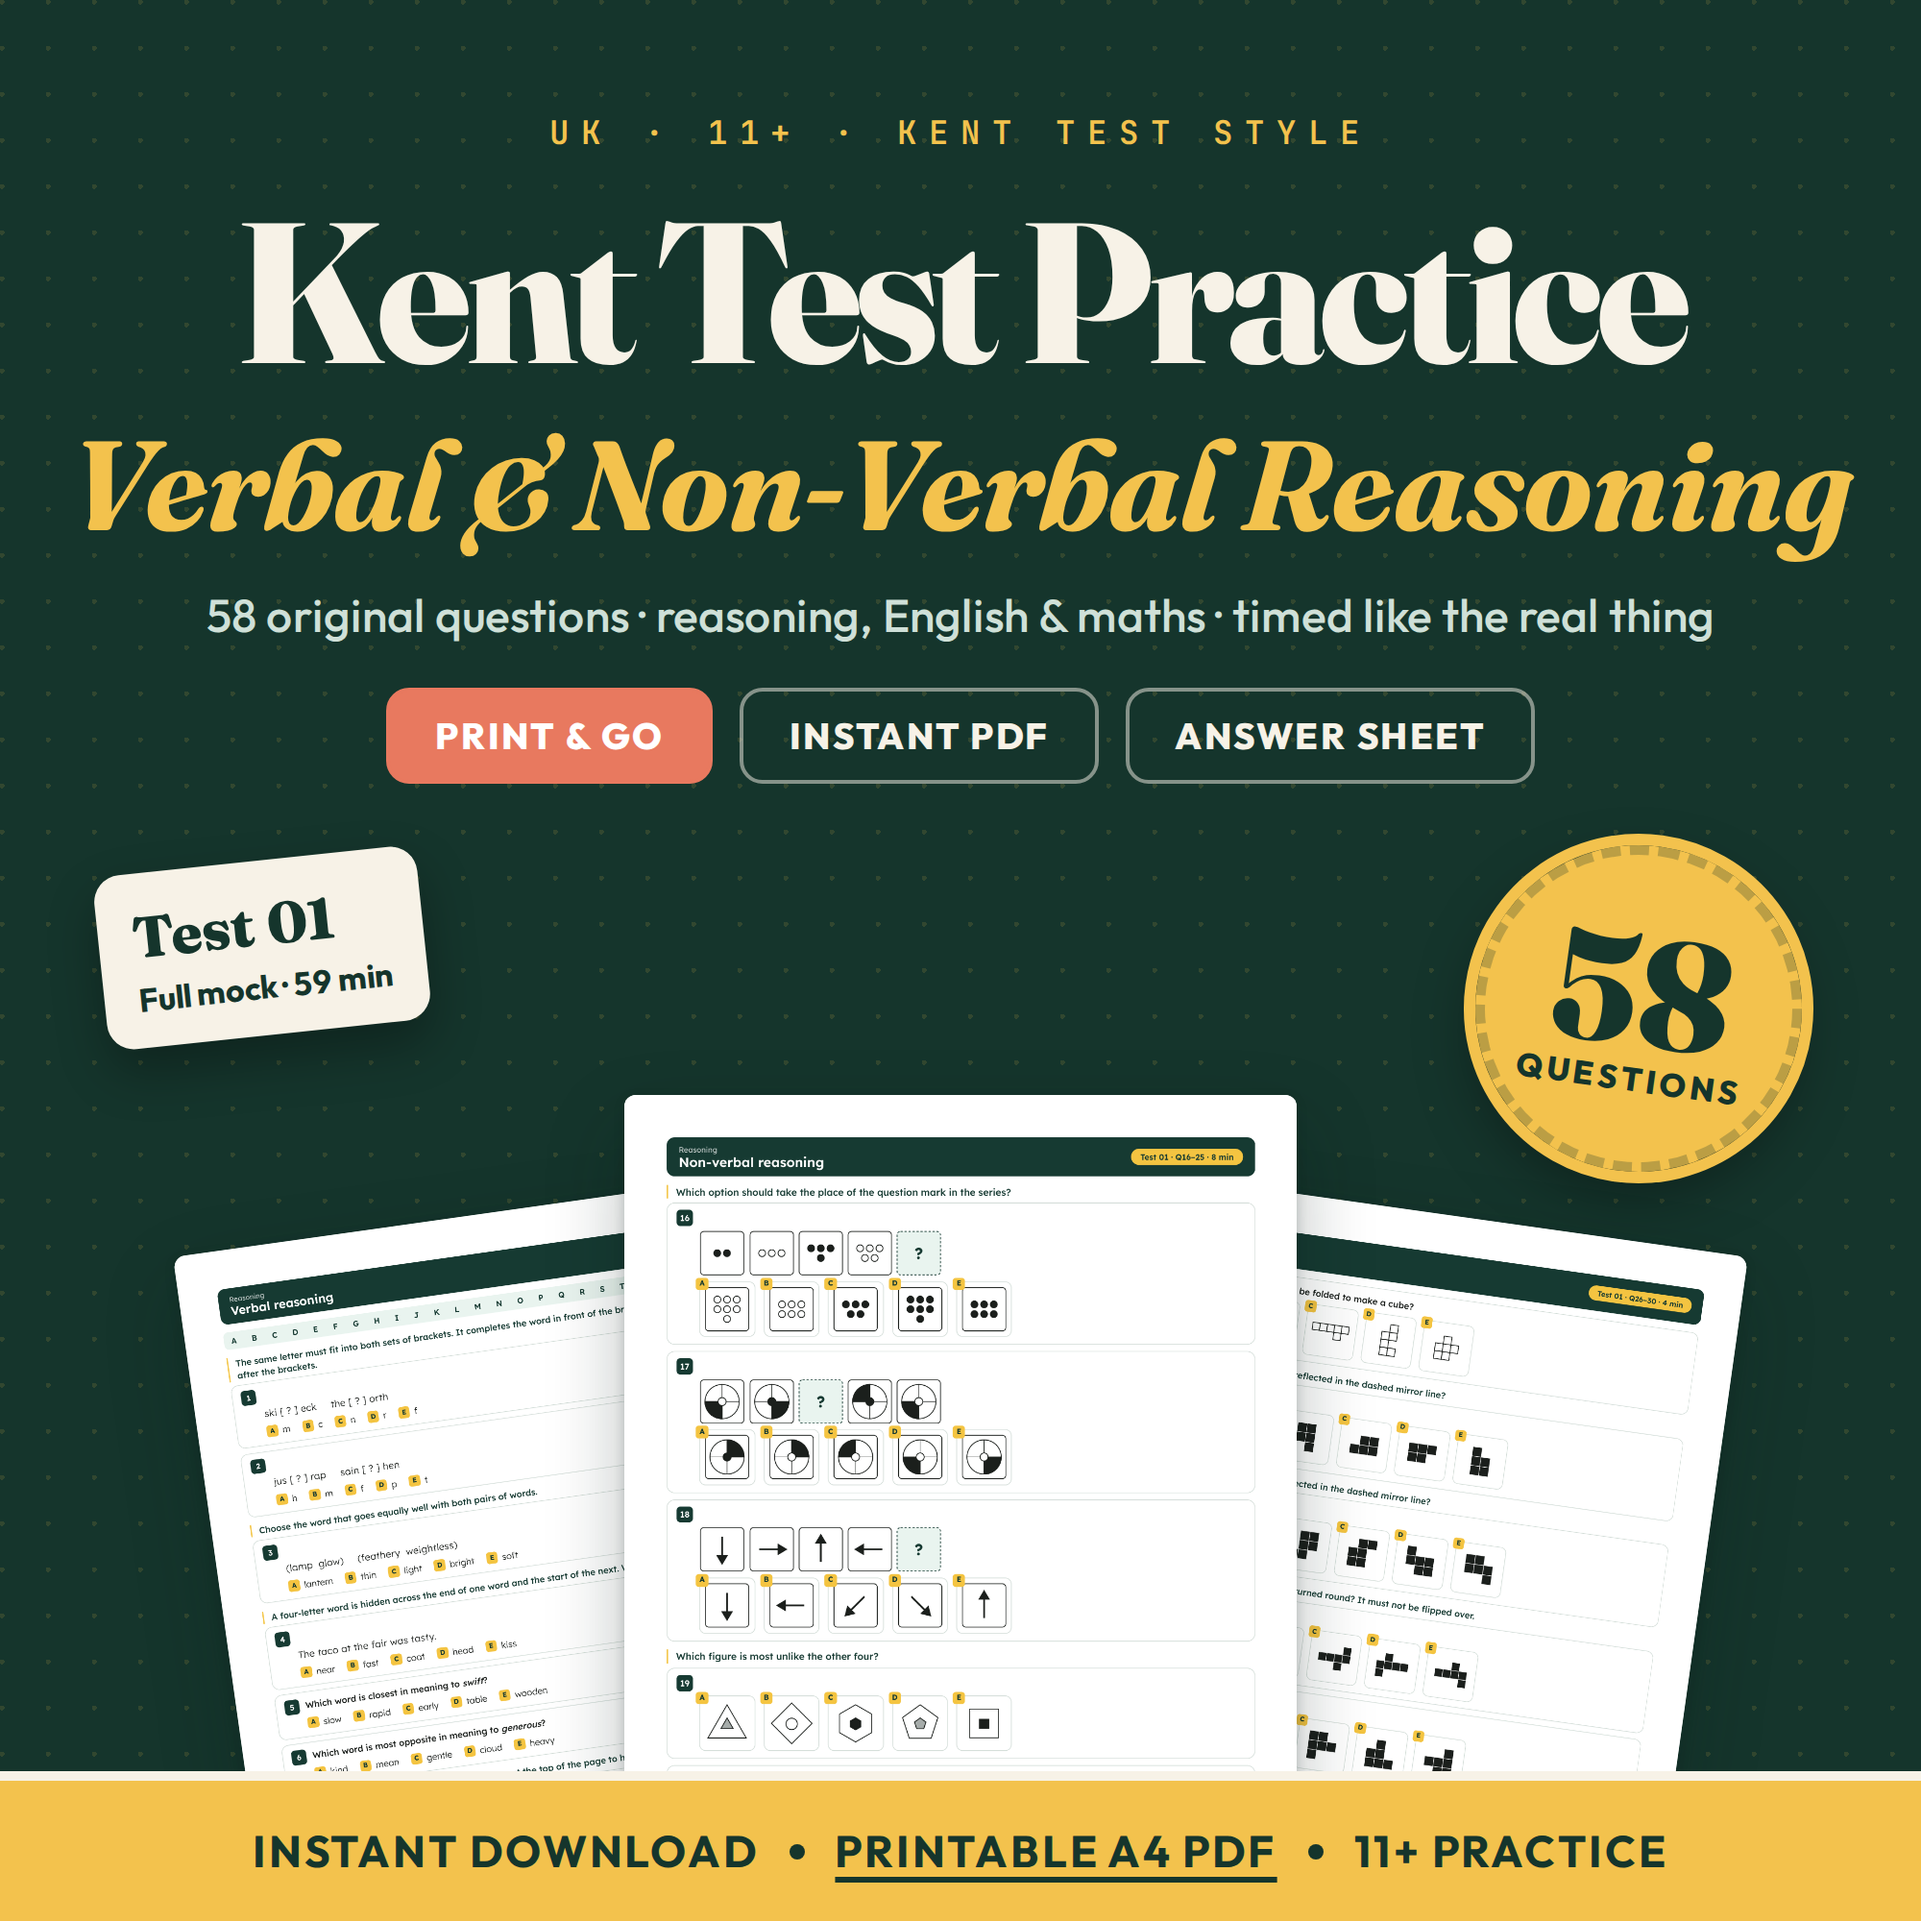
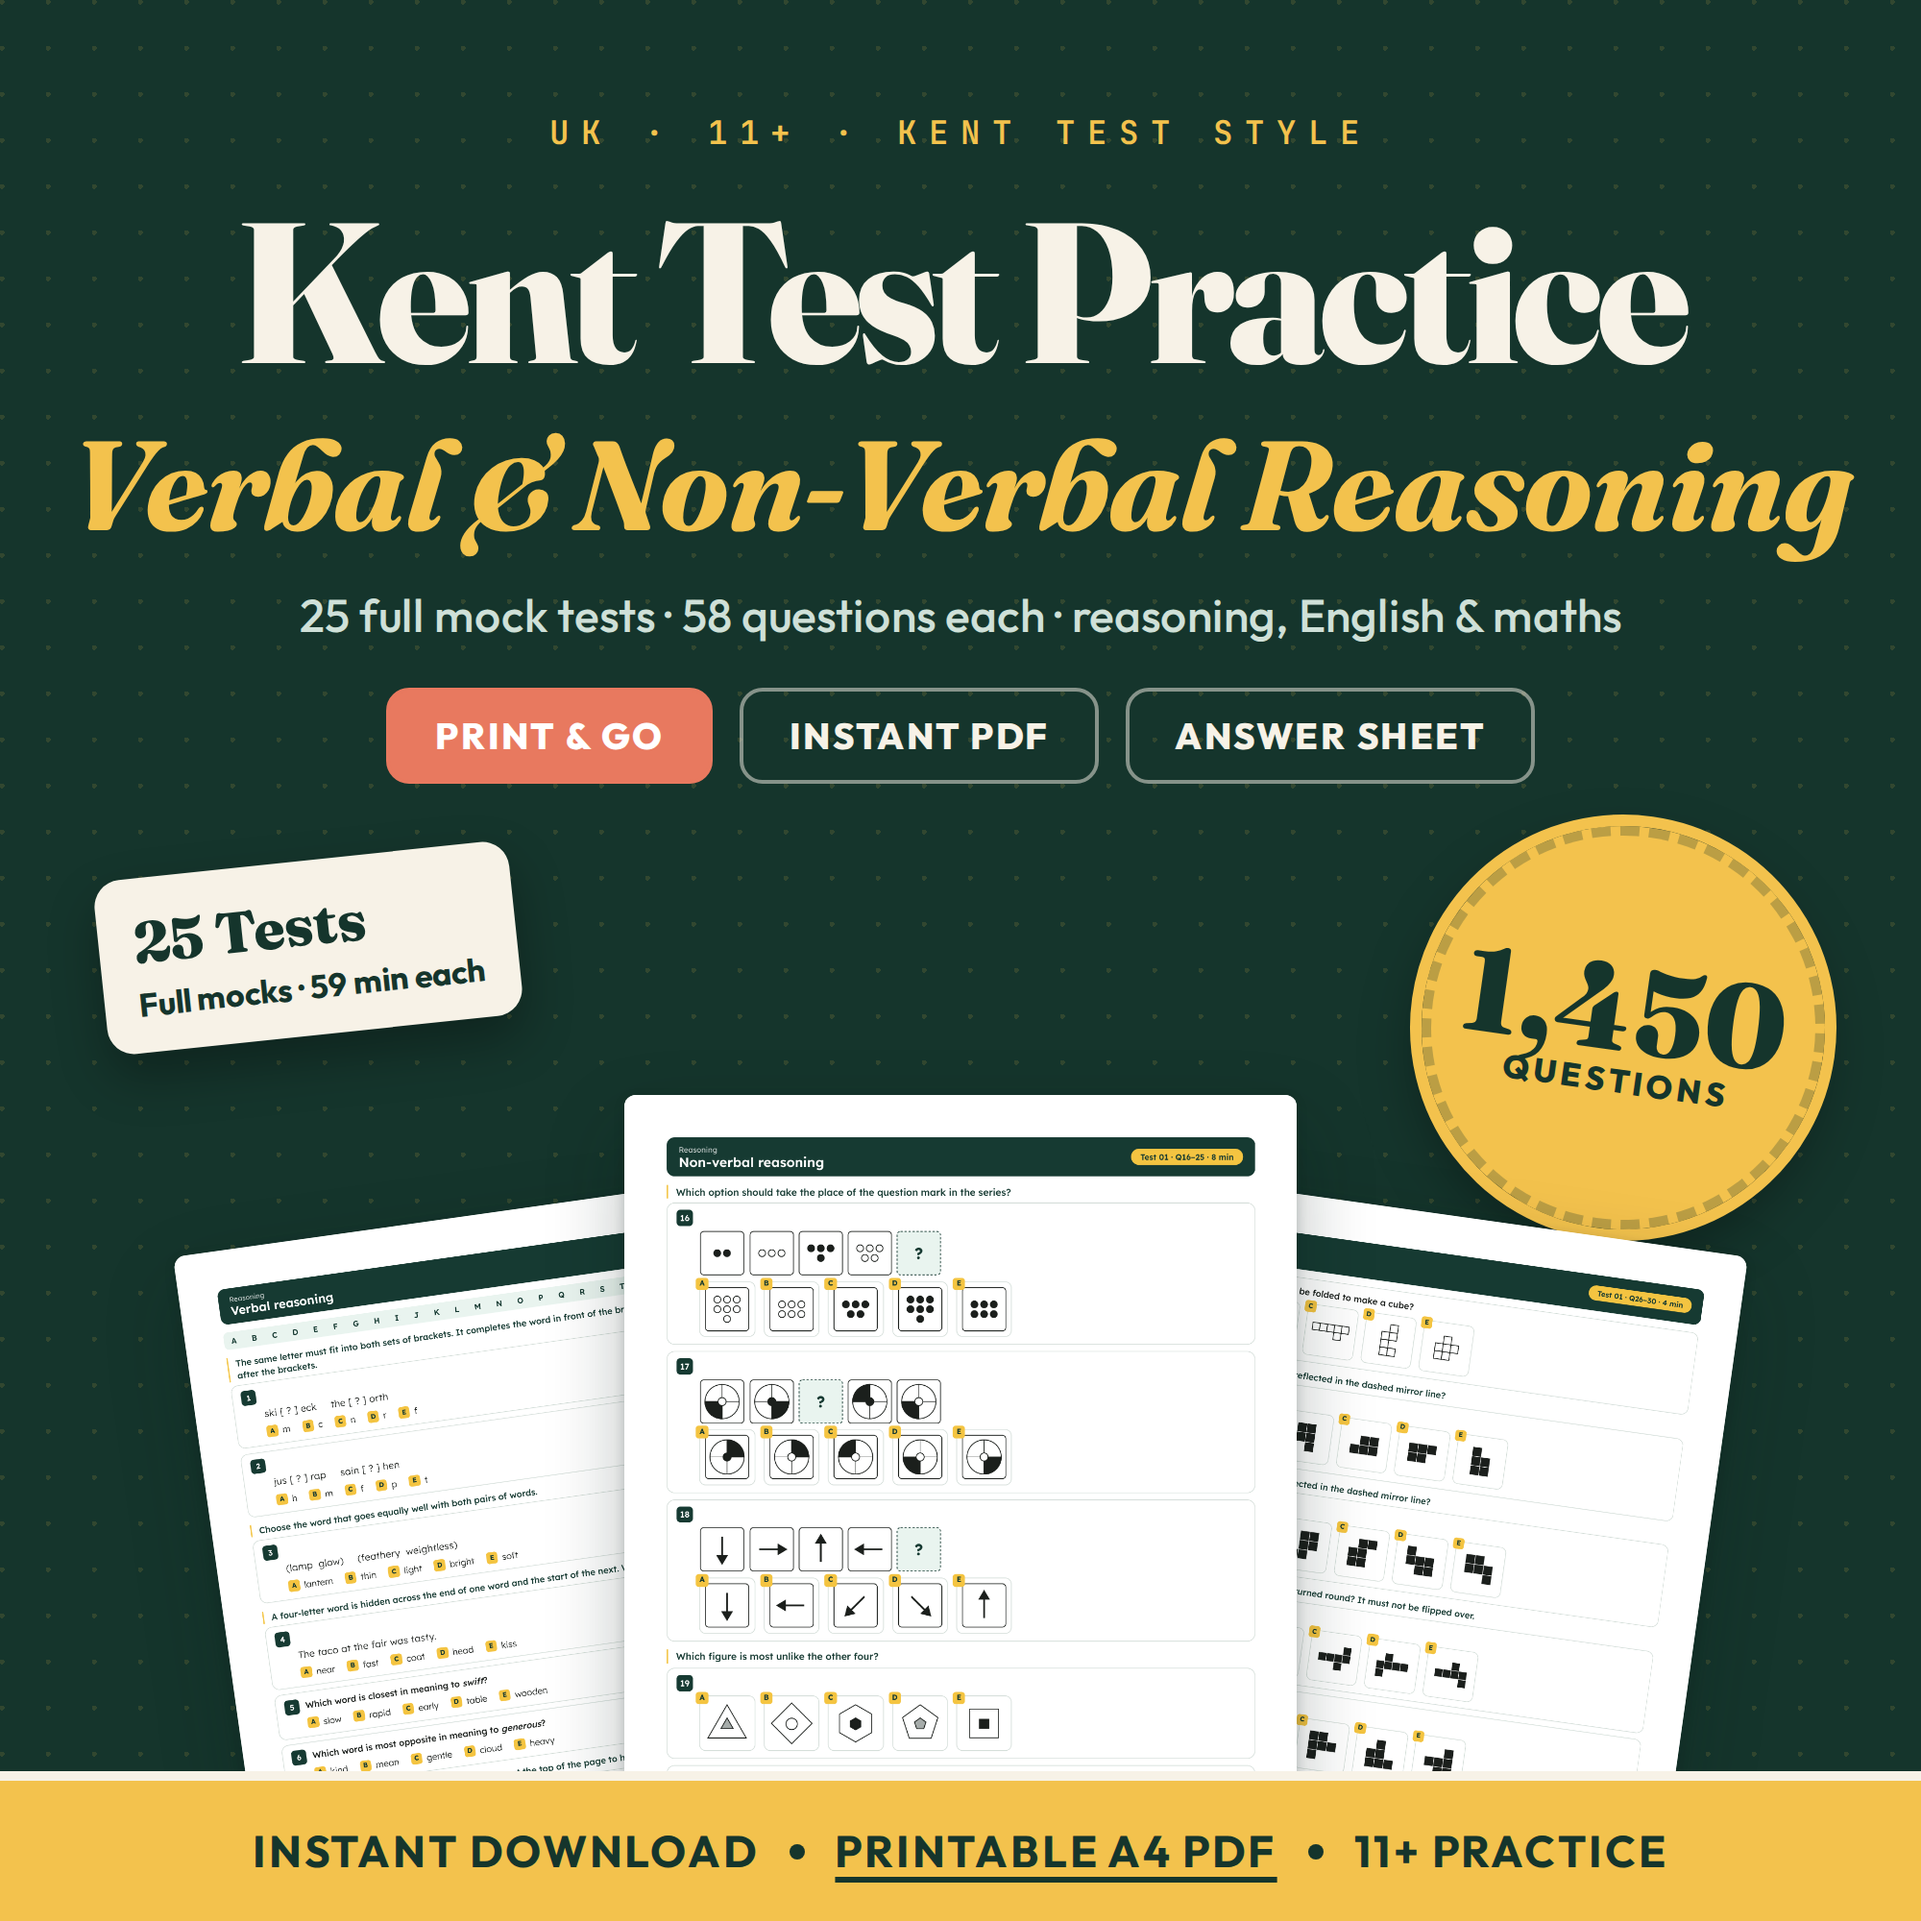
Update listing graphics for the 25-test, 1,450-question pack
Claude-Session: https://claude.ai/code/session_01B8Yb5i3A5jf2Jq7rg2Sx38

Changed region(s): [[0.713, 0.403, 0.961, 0.651], [0.093, 0.31, 0.899, 0.341], [0.062, 0.434, 0.279, 0.558]]

diff --git a/listing-graphics/kent-test-practice-01/graphics.html b/listing-graphics/kent-test-practice-01/graphics.html
@@ -55,10 +55,10 @@
   .pills{position:absolute;top:358px;left:0;right:0;display:flex;justify-content:center;gap:14px}
   .pill{padding:11px 24px;border-radius:12px;font-weight:800;font-size:19px;letter-spacing:.06em;border:2px solid rgba(247,242,231,.5);color:var(--cream)}
   .pill.on{background:var(--coral);border-color:var(--coral);color:#fff}
-  .s1 .badge{position:absolute;right:62px;top:440px;width:170px;height:170px;border-radius:50%;background:var(--sun);color:var(--forest);
+  .s1 .badge{position:absolute;right:50px;top:430px;width:210px;height:210px;border-radius:50%;background:var(--sun);color:var(--forest);
     display:flex;flex-direction:column;align-items:center;justify-content:center;transform:rotate(8deg);
     box-shadow:0 12px 30px rgba(0,0,0,.35);border:5px dashed rgba(21,53,44,.25);outline:6px solid var(--sun)}
-  .s1 .badge b{font-family:Fraunces,serif;font-size:80px;line-height:.9;font-weight:800}
+  .s1 .badge b{font-family:Fraunces,serif;font-size:62px;line-height:.9;font-weight:800}
   .s1 .badge span{font-weight:800;font-size:17px;letter-spacing:.12em}
   .s1 .tag{position:absolute;left:52px;top:448px;background:var(--cream);color:var(--forest);border-radius:14px;padding:14px 18px;
     transform:rotate(-6deg);box-shadow:0 12px 26px rgba(0,0,0,.3);font-weight:700;font-size:17px;line-height:1.35;z-index:5}
@@ -147,10 +147,10 @@
   <div class="eyebrow">UK · 11+ · KENT TEST STYLE</div>
   <div class="t1">Kent Test Practice</div>
   <div class="t2">Verbal &amp; Non-Verbal Reasoning</div>
-  <div class="t3">58 original questions · reasoning, English &amp; maths · timed like the real thing</div>
+  <div class="t3">25 full mock tests · 58 questions each · reasoning, English &amp; maths</div>
   <div class="pills"><span class="pill on">PRINT &amp; GO</span><span class="pill">INSTANT PDF</span><span class="pill">ANSWER SHEET</span></div>
-  <div class="tag"><strong>Test 01</strong>Full mock · 59 min</div>
-  <div class="badge"><b>58</b><span>QUESTIONS</span></div>
+  <div class="tag"><strong>25 Tests</strong>Full mocks · 59 min each</div>
+  <div class="badge"><b>1,450</b><span>QUESTIONS</span></div>
   <div class="fan">
     <div class="page p-l"><img src="assets/page-02.png" alt=""></div>
     <div class="page p-r"><img src="assets/page-06.png" alt=""></div>
@@ -162,12 +162,12 @@
 <!-- 2 · WHAT'S INSIDE -->
 <section class="slide s2" id="s2">
   <div class="head">
-    <div class="kicker">Five sections · one mock test</div>
+    <div class="kicker">Five sections · 25 mock tests</div>
     <div class="h1">What's <em>inside</em></div>
-    <div class="sub">Every Kent Test paper, each section timed</div>
+    <div class="sub">Every test has all five sections, each one timed</div>
   </div>
   <div class="rows">
-    <div class="booklet">Booklet 1 · Reasoning</div>
+    <div class="booklet">Booklet 1 · Reasoning · per test</div>
     <div class="row">
       <div class="ico"><svg viewBox="0 0 44 44" fill="none" stroke="#15352c" stroke-width="3" stroke-linecap="round" stroke-linejoin="round"><path d="M9 34 17 10h2l8 24"/><path d="M12 26h12"/><path d="M29 20h8M29 27h8"/></svg></div>
       <div><h3>Verbal reasoning</h3><p>Hidden words, codes, letter series &amp; analogies</p></div>
@@ -183,7 +183,7 @@
       <div><h3>Spatial reasoning</h3><p>Cube nets, reflections &amp; rotations</p></div>
       <div class="meta"><span class="chip q">5<small>QUESTIONS</small></span><span class="chip t">4<small>MINUTES</small></span></div>
     </div>
-    <div class="booklet">Booklet 2 · English &amp; Maths</div>
+    <div class="booklet">Booklet 2 · English &amp; Maths · per test</div>
     <div class="row">
       <div class="ico"><svg viewBox="0 0 44 44" fill="none" stroke="#15352c" stroke-width="3" stroke-linecap="round" stroke-linejoin="round"><path d="M7 10c6-2 11-1 15 3 4-4 9-5 15-3v24c-6-2-11-1-15 3-4-4-9-5-15-3z"/><path d="M22 13v24"/></svg></div>
       <div><h3>English</h3><p>Spelling, grammar, punctuation &amp; comprehension</p></div>
@@ -201,7 +201,7 @@
 <!-- 3 · SAMPLE QUESTIONS -->
 <section class="slide s3" id="s3">
   <div class="head">
-    <div class="kicker">A look inside the booklet</div>
+    <div class="kicker">1,450 questions to practise</div>
     <div class="h1">Real <em>exam-style</em> questions</div>
     <div class="sub">Five answer options on every question, just like the Kent Test</div>
   </div>
@@ -231,13 +231,13 @@
 <!-- 4 · TWO BOOKLETS -->
 <section class="slide s4" id="s4">
   <div class="head">
-    <div class="kicker">11 printable A4 pages</div>
-    <div class="h1">Two booklets, <em>one full mock</em></div>
-    <div class="sub">Set out like the real Kent Test — sit it in one go</div>
+    <div class="kicker">25 tests · 11 A4 pages each</div>
+    <div class="h1">Two booklets <em>in every test</em></div>
+    <div class="sub">25 full mocks, each set out like the real Kent Test</div>
   </div>
   <div class="books">
     <div class="book r">
-      <div class="bh"><b>Reasoning</b><span>30 questions · 24 min</span></div>
+      <div class="bh"><b>Reasoning</b><span>30 questions per test · 24 min</span></div>
       <div class="thumbs">
         <div class="thumb"><div class="page"><img src="assets/page-02.png" alt=""></div><em>Verbal</em></div>
         <div class="thumb"><div class="page"><img src="assets/page-04.png" alt=""></div><em>Non-verbal</em></div>
@@ -245,7 +245,7 @@
       </div>
     </div>
     <div class="book e">
-      <div class="bh"><b>English &amp; Maths</b><span>28 questions · 35 min</span></div>
+      <div class="bh"><b>English &amp; Maths</b><span>28 questions per test · 35 min</span></div>
       <div class="thumbs">
         <div class="thumb"><div class="page"><img src="assets/page-07.png" alt=""></div><em>English</em></div>
         <div class="thumb"><div class="page"><img src="assets/page-09.png" alt=""></div><em>Maths</em></div>
@@ -266,10 +266,10 @@
   <div class="page sheet"><img src="assets/page-11.png" alt=""></div>
   <div class="page cover"><img src="assets/page-01.png" alt=""></div>
   <div class="list">
-    <div class="li"><b><i>1</i>Separate answer sheet</b><p>Mark one box per question, just as on test day</p></div>
-    <div class="li"><b><i>2</i>Timed sections</b><p>Clear time limits for all five sections — 59 minutes in total</p></div>
+    <div class="li"><b><i>1</i>Answer sheet per test</b><p>Mark one box per question, just as on test day</p></div>
+    <div class="li"><b><i>2</i>Timed sections</b><p>Clear time limits for all five sections — 59 minutes per test</p></div>
     <div class="li"><b><i>3</i>Clear instructions</b><p>A “Before you start” guide on the cover page</p></div>
-    <div class="li"><b><i>4</i>Score boxes</b><p>Record results for each booklet and the total</p></div>
+    <div class="li"><b><i>4</i>Score boxes</b><p>Track results across all 25 tests</p></div>
   </div>
   <div class="score">
     <div><small>Reasoning</small><strong>/ 30</strong></div>
@@ -287,9 +287,9 @@
   </div>
   <div class="why" style="top:236px">
     <div class="card hl"><div class="n">01</div><h3>Original questions</h3><p>Written in the Kent Test style — not copied from past papers</p></div>
-    <div class="card"><div class="n">02</div><h3>Full mock test</h3><p>Verbal, non-verbal, spatial, English &amp; maths in one pack</p></div>
+    <div class="card"><div class="n">02</div><h3>25 full mock tests</h3><p>1,450 questions across verbal, non-verbal, spatial, English &amp; maths</p></div>
     <div class="card"><div class="n">03</div><h3>Five-option answers</h3><p>Choose the one best answer, the same as on test day</p></div>
-    <div class="card"><div class="n">04</div><h3>Timed like the test</h3><p>Every section has its own time limit — about 59 minutes of work</p></div>
+    <div class="card"><div class="n">04</div><h3>Timed like the test</h3><p>Every section has its own time limit — about 59 minutes per test</p></div>
     <div class="card"><div class="n">05</div><h3>Answer sheet included</h3><p>Practise marking answers the right way before the real exam</p></div>
     <div class="card hl"><div class="n">06</div><h3>Print &amp; reuse</h3><p>Instant A4 PDF — print it again for extra practice</p></div>
   </div>

diff --git a/listing-graphics/kent-test-practice-01/README.md b/listing-graphics/kent-test-practice-01/README.md
@@ -1,6 +1,6 @@
 # Kent Test Practice 01 — listing graphics
 
-Six 2000×2000 PNG product images for the *Kent Test Practice — Verbal & Non-Verbal Reasoning* PDF (Practice Test 01, Foundation).
+Six 2000×2000 PNG product images for the *Kent Test Practice — Verbal & Non-Verbal Reasoning* PDF (Practice 25 tests, 58 questions each — 1,450 in total).
 
 | File | Content |
 | --- | --- |
